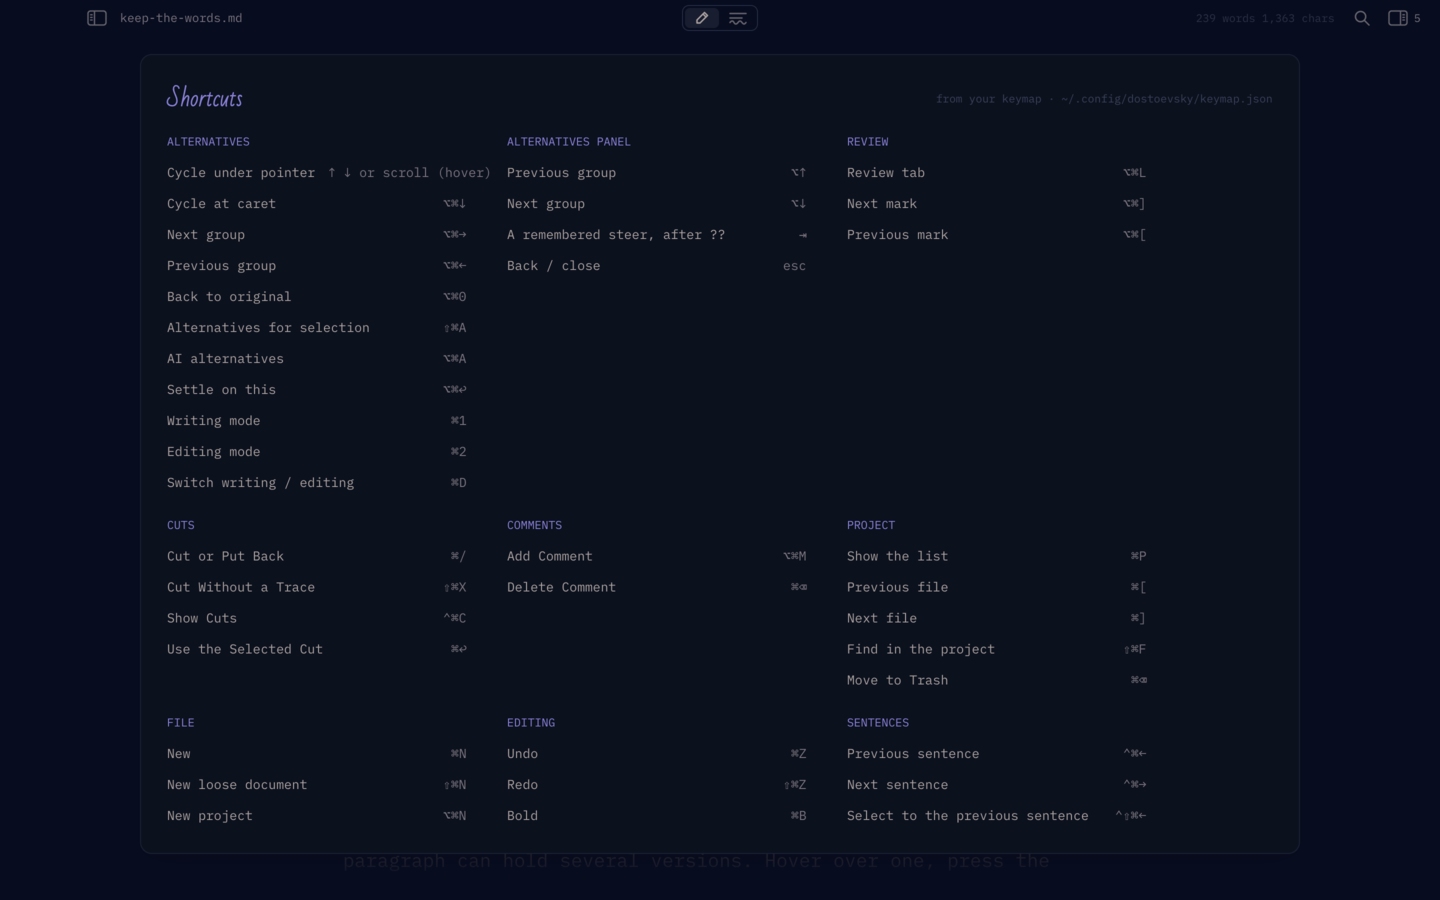
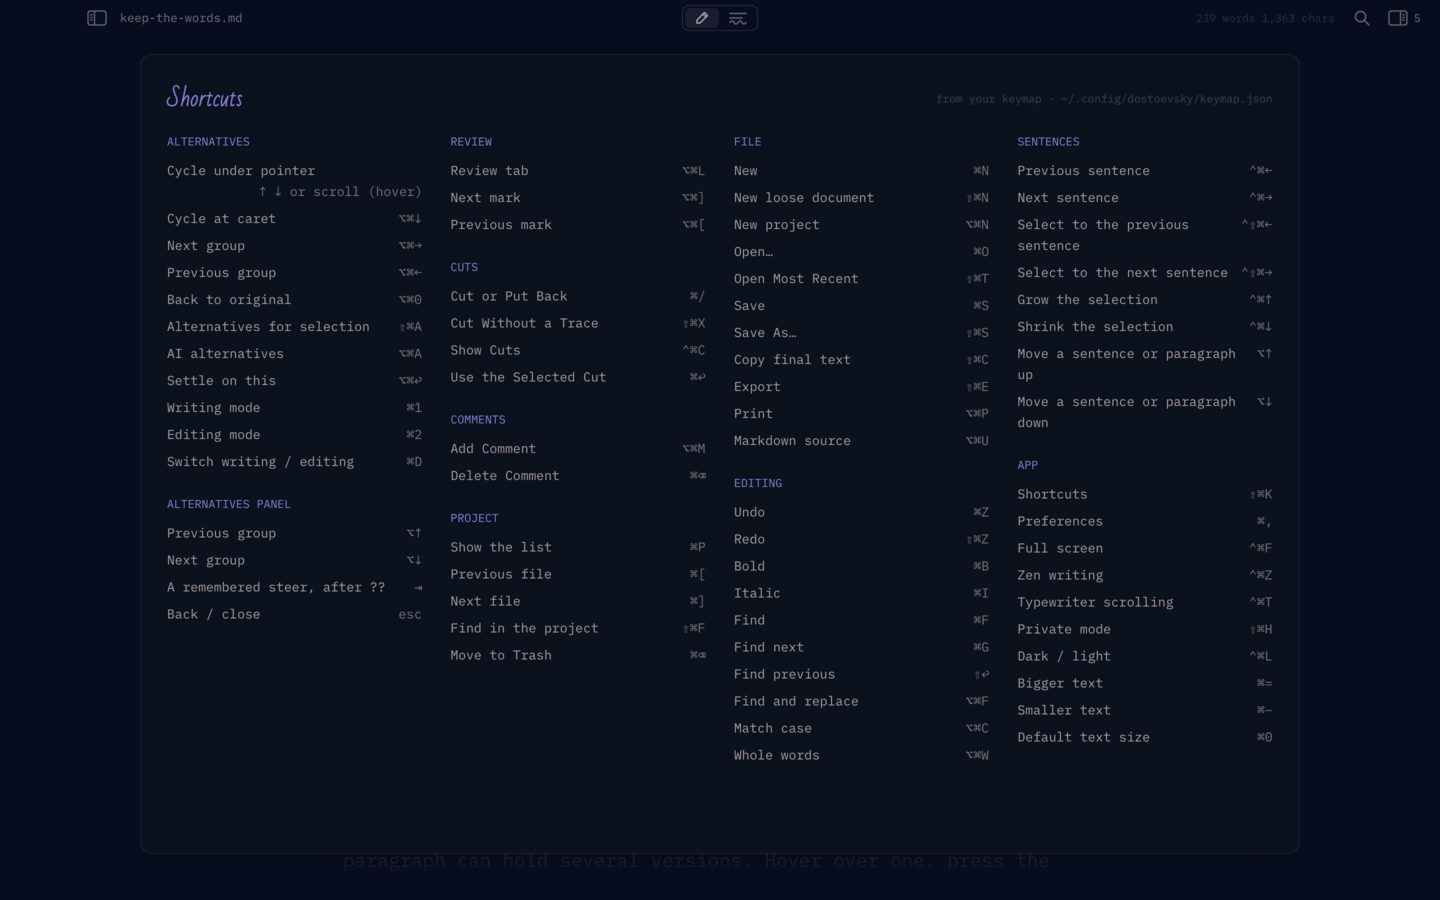
Shortcuts sheet: balanced columns of whole groups, so the whole keymap shows in the README's window; wordy keys wrap under their label (dsky-9ks)

diff --git a/crates/app/src/sheets.rs b/crates/app/src/sheets.rs
@@ -610,7 +610,7 @@ impl Workspace {
         (title, body)
     }
 
-    fn render_shortcuts(&mut self, _: &mut Window, cx: &mut Context<Self>) -> (AnyElement, AnyElement) {
+    fn render_shortcuts(&mut self, window: &mut Window, cx: &mut Context<Self>) -> (AnyElement, AnyElement) {
         let title = div()
             .flex()
             .items_center()
@@ -627,36 +627,66 @@ impl Workspace {
                 items.retain(|(_, a)| !a.partial_eq(&crate::actions::AiAlternatives));
             }
         }
-        let cols: Vec<AnyElement> = groups
+        let wheel = Prefs::get(cx).wheel;
+        let groups: Vec<(&'static str, Vec<(&'static str, String)>)> = groups
             .into_iter()
             .map(|(name, items)| {
-                div()
-                    .flex()
-                    .flex_col()
-                    .gap_1()
-                    .w(px(300.))
-                    .mb_5()
-                    .child(div().text_color(c(theme::accent())).text_size(px(11.5)).mb_1().child(name.to_uppercase()))
-                    .children(items.into_iter().map(|(label, action)| {
+                let rows = items
+                    .into_iter()
+                    .map(|(label, action)| {
                         let keys = shortcut_label(action.as_ref(), cx).unwrap_or_else(|| "—".into());
-                        let keys = match (action.partial_eq(&CycleNext), Prefs::get(cx).wheel) {
+                        let keys = match (action.partial_eq(&CycleNext), wheel) {
                             (false, _) => keys,
                             (true, WheelSwitch::Always) => tr!("↑ ↓ or scroll (hover)").to_string(),
                             (true, WheelSwitch::WithOption) => tr!("↑ ↓ or ⌥ scroll (hover)").to_string(),
                             (true, WheelSwitch::Off) => tr!("↑ ↓ (hover)").to_string(),
                         };
+                        (label, keys)
+                    })
+                    .collect();
+                (name, rows)
+            })
+            .collect();
+        // dsky-9ks: columns of whole groups, in order, as even as they go, so the whole keymap
+        // shows at once in a usual window; a narrow or short one scrolls.
+        let room = window.viewport_size().width - sheet_inset(window.viewport_size().width) * 2. - px(2. * 26. + 2.);
+        let n = shortcut_column_count(room.into());
+        let col_w = (f32::from(room) - SHORTCUT_GAP * (n - 1) as f32) / n as f32;
+        let heights: Vec<f32> = groups.iter().map(|(_, rows)| shortcut_group_height(rows, col_w)).collect();
+        let mut groups = groups.into_iter().enumerate();
+        let cols: Vec<AnyElement> = shortcut_columns(&heights, n)
+            .into_iter()
+            .map(|run| {
+                div()
+                    .flex()
+                    .flex_col()
+                    .flex_1()
+                    .min_w_0()
+                    .gap_5()
+                    .children(groups.by_ref().take(run.len()).map(|(i, (name, rows))| {
                         div()
+                            .id(("shortcut-group", i))
                             .flex()
-                            .justify_between()
-                            .gap_3()
-                            .py(px(3.))
-                            .child(div().text_color(c(theme::text_2())).child(label))
-                            .child(div().text_color(c(theme::muted())).child(keys))
+                            .flex_col()
+                            .child(div().text_color(c(theme::accent())).text_size(px(11.5)).mb_1p5().child(name.to_uppercase()))
+                            .children(rows.into_iter().map(|(label, keys)| {
+                                // Words for keys ("↑ ↓ or scroll (hover)") go under the label rather than squeeze it.
+                                let wordy = keys.chars().count() > SHORTCUT_KEYS_WORDY;
+                                div()
+                                    .flex()
+                                    .when(wordy, |d| d.flex_wrap())
+                                    .justify_between()
+                                    .gap_x_3()
+                                    .py(px(SHORTCUT_ROW_PAD))
+                                    .child(div().min_w_0().text_color(c(theme::text_2())).child(label))
+                                    .child(div().when(wordy, |d| d.flex_grow(1.).text_right()).when(!wordy, |d| d.flex_none()).text_color(c(theme::muted())).child(keys))
+                            }))
+                            .test_support()
                     }))
                     .into_any_element()
             })
             .collect();
-        let body = div().id("shortcut-list").size_full().overflow_y_scroll().flex().flex_wrap().gap_x_10().children(cols).into_any_element();
+        let body = div().id("shortcut-list").size_full().overflow_y_scroll().child(div().flex().gap(px(SHORTCUT_GAP)).children(cols)).test_support().into_any_element();
         (title, body)
     }
 
@@ -1493,6 +1523,73 @@ impl IntoElement for PageSample {
 
 const PREFS_STACKED_BELOW: Pixels = px(820.);
 
+/// The Shortcuts sheet's columns: the gap between them, the narrowest one, and what a row and a
+/// group take, close enough to plan the columns before layout (13 px text, the UI's mono face).
+const SHORTCUT_GAP: f32 = 28.;
+const SHORTCUT_COL_MIN: f32 = 240.;
+const SHORTCUT_ROW_PAD: f32 = 3.;
+const SHORTCUT_LINE: f32 = 21.;
+const SHORTCUT_CHAR: f32 = 7.8;
+const SHORTCUT_HEADING: f32 = 24.;
+const SHORTCUT_GROUP_GAP: f32 = 20.;
+/// Keys longer than this are words, which wrap under their label.
+const SHORTCUT_KEYS_WORDY: usize = 8;
+
+/// How many columns fit `room` px, at most four.
+fn shortcut_column_count(room: f32) -> usize {
+    (((room + SHORTCUT_GAP) / (SHORTCUT_COL_MIN + SHORTCUT_GAP)) as usize).clamp(1, 4)
+}
+
+/// About how tall a group is in a column `col_w` wide: a label that doesn't fit beside its keys wraps.
+fn shortcut_group_height(rows: &[(&str, String)], col_w: f32) -> f32 {
+    let rows: f32 = rows
+        .iter()
+        .map(|(label, keys)| {
+            let (label, keys) = (label.chars().count() as f32 * SHORTCUT_CHAR, keys.chars().count());
+            if keys > SHORTCUT_KEYS_WORDY {
+                let one_line = label + 12. + keys as f32 * SHORTCUT_CHAR <= col_w;
+                return if one_line { 1. } else { 2. } * SHORTCUT_LINE + 2. * SHORTCUT_ROW_PAD;
+            }
+            let room = (col_w - 12. - keys as f32 * SHORTCUT_CHAR).max(SHORTCUT_CHAR * 8.);
+            let lines = (label / room).ceil().max(1.);
+            lines * SHORTCUT_LINE + 2. * SHORTCUT_ROW_PAD
+        })
+        .sum();
+    SHORTCUT_HEADING + rows + SHORTCUT_GROUP_GAP
+}
+
+/// Splits the groups, in order, into at most `n` runs of whole groups with the tallest run as
+/// short as it can be.
+fn shortcut_columns(heights: &[f32], n: usize) -> Vec<std::ops::Range<usize>> {
+    let len = heights.len();
+    let n = n.clamp(1, len.max(1));
+    let sum = |r: std::ops::Range<usize>| heights[r].iter().sum::<f32>();
+    // best[k][i]: the tallest run when the first i groups go into k runs; cut[k][i]: where the last run starts.
+    let mut best = vec![vec![f32::INFINITY; len + 1]; n + 1];
+    let mut cut = vec![vec![0; len + 1]; n + 1];
+    best[0][0] = 0.;
+    for k in 1..=n {
+        for i in 1..=len {
+            for s in (k - 1)..i {
+                let tallest = best[k - 1][s].max(sum(s..i));
+                if tallest < best[k][i] {
+                    best[k][i] = tallest;
+                    cut[k][i] = s;
+                }
+            }
+        }
+    }
+    let mut runs = Vec::new();
+    let mut i = len;
+    for k in (1..=n).rev() {
+        let s = cut[k][i];
+        runs.push(s..i);
+        i = s;
+    }
+    runs.reverse();
+    runs
+}
+
 pub(crate) fn sheet_inset(window_width: Pixels) -> Pixels {
     ((window_width - px(900.)) / 2.).clamp(px(24.), px(140.))
 }
@@ -1518,7 +1615,23 @@ pub(crate) fn group_thousands(n: usize) -> String {
 
 #[cfg(test)]
 mod tests {
-    use super::group_thousands;
+    use super::{group_thousands, shortcut_column_count, shortcut_columns};
+
+    #[test]
+    fn shortcut_columns_are_even_runs() {
+        assert_eq!(shortcut_columns(&[1., 1., 1., 1.], 2), vec![0..2, 2..4]);
+        assert_eq!(shortcut_columns(&[5., 1., 1., 1., 1., 1.], 2), vec![0..1, 1..6]);
+        assert_eq!(shortcut_columns(&[3., 3.], 4), vec![0..1, 1..2], "never more columns than groups");
+        assert_eq!(shortcut_columns(&[2., 2., 2.], 1), vec![0..3]);
+    }
+
+    #[test]
+    fn shortcut_column_count_by_room() {
+        assert_eq!(shortcut_column_count(200.), 1);
+        assert_eq!(shortcut_column_count(800.), 3);
+        assert_eq!(shortcut_column_count(1106.), 4);
+        assert_eq!(shortcut_column_count(3000.), 4);
+    }
 
     #[test]
     fn thousands() {

diff --git a/crates/app/src/ui_tests/window.rs b/crates/app/src/ui_tests/window.rs
@@ -722,3 +722,28 @@ fn each_mode_puts_back_its_own_panels() {
     ui.keys("cmd-1 alt-cmd-l");
     assert!(ui.has_element("review") && !ui.has_element("overflow"));
 }
+
+/// dsky-9ks: in the README's window (1440 × 900) the Shortcuts sheet shows every group whole,
+/// with AI off and on.
+#[test]
+fn shortcuts_sheet_fits_without_scrolling() {
+    for ai in [false, true] {
+        let mut ui = Ui::open_sized(DOC, 1440., 900.);
+        ui.set_prefs(|p| p.ai.enabled = ai);
+        ui.action(crate::actions::ShowShortcuts);
+        assert_eq!(ui.sheet(), Some("shortcuts"));
+        let list = ui.element("shortcut-list").bounds();
+        let groups = crate::actions::shortcut_groups().len();
+        let mut shown = 0;
+        for i in 0..groups {
+            let id = gpui_kit::ElementId::from(("shortcut-group", i));
+            if !ui.has_element(id.clone()) {
+                continue;
+            }
+            shown += 1;
+            let g = ui.element(id).bounds();
+            assert!(g.bottom() <= list.bottom() && g.right() <= list.right() + px(1.), "ai {ai}: group {i} at {g:?} outside {list:?}");
+        }
+        assert!(shown >= groups - 1, "ai {ai}: {shown} of {groups} groups");
+    }
+}
